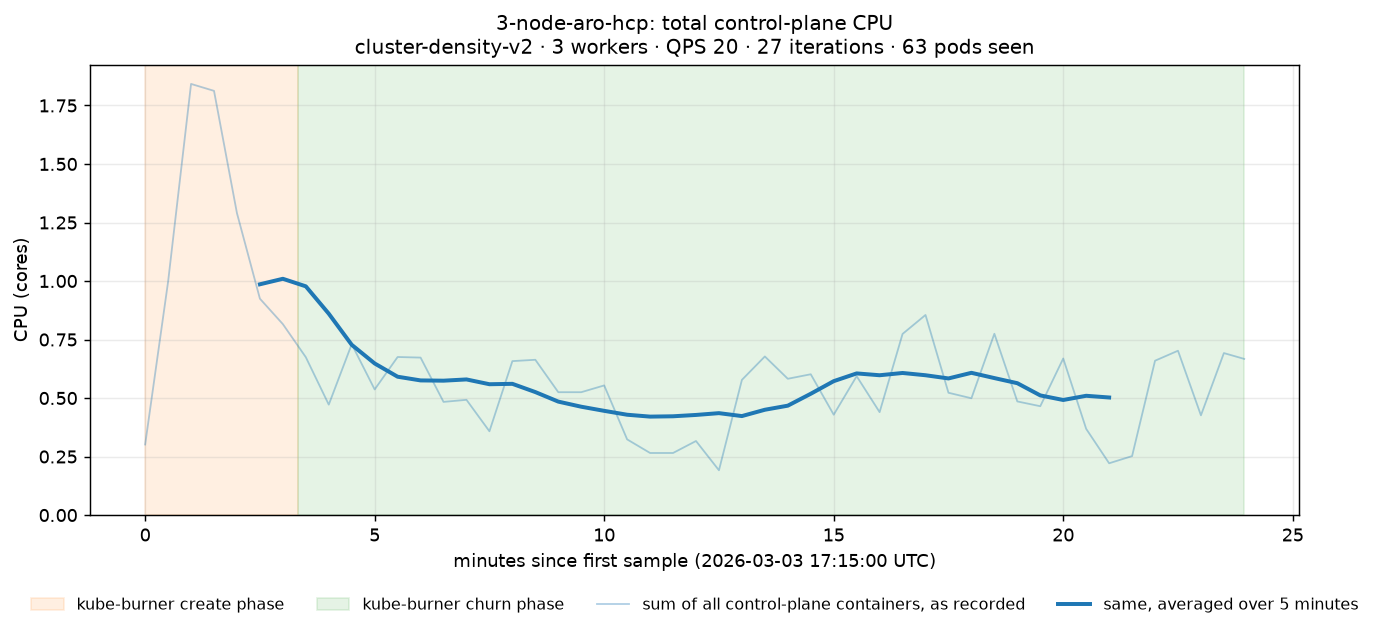
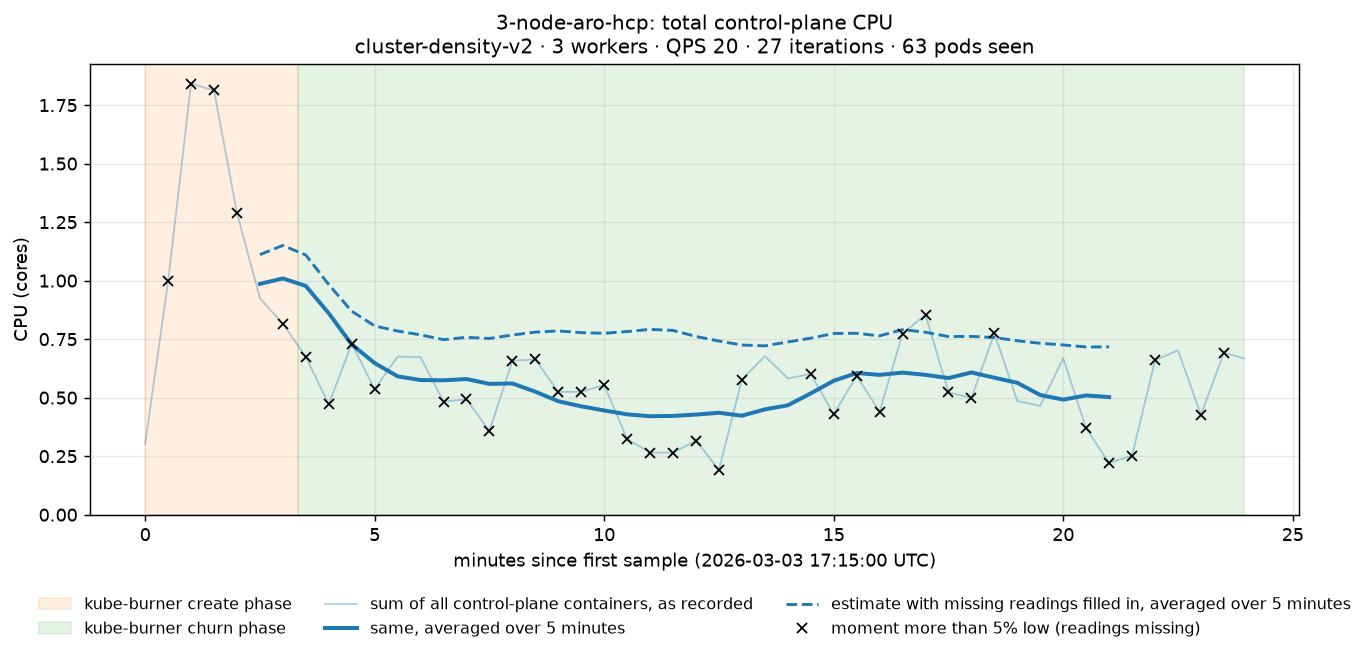
feat: mark moments with missing readings on the usage graphs

diff --git a/hack/hcp-scale-analysis/plot_controlplane_usage.py b/hack/hcp-scale-analysis/plot_controlplane_usage.py
@@ -9,10 +9,15 @@ these files to graphs/<dump name>/ next to this script (or to --output DIR):
   total-cpu.png     total control-plane CPU (cores) over time, as recorded and averaged
                     over 5 minutes (which hides bursts lasting only seconds)
   total-memory.png  total control-plane memory working set (GiB) over time
-  summary.json      job settings, phase times, sampling interval, gaps and skipped duplicates
+  summary.json      job settings, phase times, sampling interval, gaps, skipped duplicates
+                    and missing readings
 
 Both graphs share one time axis and shade the kube-burner phases recorded in
 jobSummary, so a representative steady-state window can be picked by eye.
+A missing reading adds nothing to the recorded total, so where containers' readings are
+missing (as in the 3- and 6-node runs) the graphs mark each moment whose total is more than
+5% too low, and add a dashed estimate with each copy's missing readings filled in along a
+straight line from its neighboring readings. Graphs with no such moments don't change.
 The output is meant to be committed, so it records the dump's file name but not
 the cluster ID or namespace; those are only printed to the terminal.
 
@@ -32,6 +37,7 @@ from collections import Counter, defaultdict
 import matplotlib
 matplotlib.use("Agg")
 import matplotlib.pyplot as plt
+import numpy as np
 
 from hcputil import opener
 
@@ -41,6 +47,7 @@ CPU_TO_CORES = 1 / 100
 BYTES_TO_GIB = 1 / 1024 ** 3
 GAP_FACTOR = 1.5  # a step this many times the usual sampling interval means samples are missing
 SMOOTH_MINUTES = 5
+LOW_SHARE = 0.05  # a moment is marked when missing readings leave its recorded total more than this share low
 PHASE_COLORS = ["tab:orange", "tab:green"]
 GRAPHS_DIR = os.path.join(os.path.dirname(os.path.abspath(__file__)), "graphs")
 
@@ -75,14 +82,14 @@ def rounded_minutes(origin, when):
 def read_dump(path):
     """Read the dump once.
 
-    Returns (job_summary, usage, containers, duplicates), where
+    Returns (job_summary, usage, readings, duplicates), where
     usage[namespace][metric][time] is the sum over that namespace's containers,
-    containers[namespace] holds the (pod, container) pairs seen and duplicates[namespace]
-    counts repeated samples that were skipped.
+    readings[namespace][metric][(pod, container)][time] is one container's reading and
+    duplicates[namespace] counts repeated samples that were skipped.
     """
     job = None
     usage = defaultdict(lambda: {CPU_METRIC: defaultdict(float), MEMORY_METRIC: defaultdict(float)})
-    containers = defaultdict(set)
+    readings = defaultdict(lambda: {CPU_METRIC: defaultdict(dict), MEMORY_METRIC: defaultdict(dict)})
     seen = set()
     duplicates = Counter()
     with opener(path) as f:
@@ -116,8 +123,8 @@ def read_dump(path):
                 continue
             seen.add(key)
             usage[namespace][metric][when] += record["value"]
-            containers[namespace].add((pod, container))
-    return job or {}, usage, containers, duplicates
+            readings[namespace][metric][(pod, container)][when] = record["value"]
+    return job or {}, usage, readings, duplicates
 
 
 def total_series(usage, namespaces, metric, scale):
@@ -127,6 +134,44 @@ def total_series(usage, namespaces, metric, scale):
         for when, value in usage[namespace][metric].items():
             totals[when] += value
     return sorted((when, value * scale) for when, value in totals.items())
+
+
+def filled_in_total(copies):
+    """Add up copies {key: [(time, value)] in time order} at each moment two ways: as recorded, and
+    with each copy's missing readings between its first and last reading filled in along a straight
+    line from its neighboring readings, so they don't count as zero.
+
+    Returns (times, recorded totals, filled-in totals, readings filled in, readings present)."""
+    times = sorted({when for points in copies.values() for when, _ in points})
+    seconds = np.array([(when - times[0]).total_seconds() for when in times]) if times else np.zeros(0)
+    position = {when: i for i, when in enumerate(times)}
+    recorded, filled_in = np.zeros(len(times)), np.zeros(len(times))
+    present = filled = 0
+    for points in copies.values():
+        own = np.array([(when - times[0]).total_seconds() for when, _ in points])
+        inside = (seconds >= own[0]) & (seconds <= own[-1])
+        filled_in[inside] += np.interp(seconds[inside], own, [value for _, value in points])
+        for when, value in points:
+            recorded[position[when]] += value
+        present += len(points)
+        filled += int(inside.sum()) - len(points)
+    return times, recorded, filled_in, filled, present
+
+
+def missing_readings(readings, namespaces, metric, scale):
+    """How missing readings affect the recorded total over the whole run: (moments more than LOW_SHARE
+    low as [(time, recorded total)], the filled-in estimate as [(time, total)], a summary dict)."""
+    copies = {(namespace, *key): sorted((when, value * scale) for when, value in values.items())
+              for namespace in namespaces for key, values in readings[namespace][metric].items()}
+    times, recorded, filled_in, filled, present = filled_in_total(copies)
+    low_share = np.divide(filled_in - recorded, filled_in, out=np.zeros(len(times)), where=filled_in > 0)
+    low = [(when, value) for when, value, share in zip(times, recorded, low_share) if share > LOW_SHARE]
+    summary = {
+        "share_of_readings_missing": round(filled / (filled + present), 3) if filled + present else None,
+        f"moments_more_than_{LOW_SHARE:.0%}_low".replace("%", "_percent"): len(low),
+        "lowest_moment_low_by": round(float(low_share.max()), 3) if len(times) else None,
+    }
+    return low, list(zip(times, filled_in)), summary
 
 
 def interval_and_gaps(points):
@@ -179,7 +224,8 @@ def line_points(points, origin, interval):
     return xs, ys
 
 
-def plot_total(path, points, origin, interval, phases, title, ylabel, color, smooth_minutes=None):
+def plot_total(path, points, origin, interval, phases, title, ylabel, color, smooth_minutes=None,
+               low=(), estimate=()):
     fig, ax = plt.subplots(figsize=(12, 4.5))
     for (name, start, end), shade in zip(phases, PHASE_COLORS):
         ax.axvspan(minutes_since(origin, start), minutes_since(origin, end),
@@ -192,18 +238,26 @@ def plot_total(path, points, origin, interval, phases, title, ylabel, color, smo
         ax.plot(smooth_xs, smooth_ys, color=color, lw=2.2, label=f"same, averaged over {smooth_minutes} minutes")
     else:
         ax.plot(xs, ys, color=color, lw=1.5, label="sum of all control-plane containers")
+    if low:
+        estimated = rolling_average(estimate, smooth_minutes) if smooth_minutes else estimate
+        estimate_xs, estimate_ys = line_points(estimated, origin, interval)
+        ax.plot(estimate_xs, estimate_ys, color=color, lw=1.6, ls="--",
+                label="estimate with missing readings filled in"
+                      + (f", averaged over {smooth_minutes} minutes" if smooth_minutes else ""))
+        ax.plot([minutes_since(origin, when) for when, _ in low], [value for _, value in low], "x",
+                color="black", markersize=5, label=f"moment more than {LOW_SHARE:.0%} low (readings missing)")
     ax.set_title(title, fontsize=11)
     ax.set_xlabel(f"minutes since first sample ({origin:%Y-%m-%d %H:%M:%S} UTC)")
     ax.set_ylabel(ylabel)
     ax.set_ylim(bottom=0)
     ax.grid(True, alpha=0.25)
-    ax.legend(loc="upper center", bbox_to_anchor=(0.5, -0.15), ncol=4 if smooth_minutes else 3,
+    ax.legend(loc="upper center", bbox_to_anchor=(0.5, -0.15), ncol=3 if low or not smooth_minutes else 4,
               frameon=False, fontsize=9)
     fig.savefig(path, dpi=130, bbox_inches="tight")
     plt.close(fig)
 
 
-def describe(points, origin, interval, gaps):
+def describe(points, origin, interval, gaps, missing):
     return {
         "first_sample": points[0][0].isoformat(),
         "last_sample": points[-1][0].isoformat(),
@@ -211,6 +265,7 @@ def describe(points, origin, interval, gaps):
         "interval_seconds": interval,
         "gaps": [{"from_minute": rounded_minutes(origin, before),
                   "to_minute": rounded_minutes(origin, after)} for before, after in gaps],
+        "missing_readings": missing,
     }
 
 
@@ -220,7 +275,7 @@ def main():
     name = os.path.basename(dump).removesuffix(".gz").removesuffix(".ndjson")
     output = os.path.expanduser(args.output) if args.output else os.path.join(GRAPHS_DIR, name)
 
-    job, usage, containers, duplicates = read_dump(dump)
+    job, usage, readings, duplicates = read_dump(dump)
     cluster_id = job.get("clusterName")
     if not cluster_id:
         sys.exit(f"{dump} has no jobSummary with a clusterName, so the hosted cluster under test is unknown")
@@ -236,7 +291,7 @@ def main():
 
     origin = min(cpu[0][0], memory[0][0])
     phases = job_phases(job)
-    seen = set().union(*(containers[ns] for ns in namespaces))
+    seen = set().union(*(readings[ns][metric] for ns in namespaces for metric in (CPU_METRIC, MEMORY_METRIC)))
     pods = {pod for pod, _ in seen}
     config = job.get("jobConfig", {})
     subtitle = (f"{config.get('name', 'unknown job')} · {job.get('workerNodesCount', '?')} workers · "
@@ -246,11 +301,14 @@ def main():
     os.makedirs(output, exist_ok=True)
     cpu_interval, cpu_gaps = interval_and_gaps(cpu)
     memory_interval, memory_gaps = interval_and_gaps(memory)
+    cpu_low, cpu_estimate, cpu_missing = missing_readings(readings, namespaces, CPU_METRIC, CPU_TO_CORES)
+    memory_low, memory_estimate, memory_missing = missing_readings(readings, namespaces, MEMORY_METRIC, BYTES_TO_GIB)
     plot_total(os.path.join(output, "total-cpu.png"), cpu, origin, cpu_interval, phases,
                f"{name}: total control-plane CPU\n{subtitle}", "CPU (cores)", "tab:blue",
-               smooth_minutes=SMOOTH_MINUTES)
+               smooth_minutes=SMOOTH_MINUTES, low=cpu_low, estimate=cpu_estimate)
     plot_total(os.path.join(output, "total-memory.png"), memory, origin, memory_interval, phases,
-               f"{name}: total control-plane memory\n{subtitle}", "memory working set (GiB)", "tab:red")
+               f"{name}: total control-plane memory\n{subtitle}", "memory working set (GiB)", "tab:red",
+               low=memory_low, estimate=memory_estimate)
 
     summary = {
         "dump": os.path.basename(dump),
@@ -270,8 +328,8 @@ def main():
         "pods_seen": len(pods),
         "containers_seen": len(seen),
         "duplicate_samples_skipped": sum(duplicates[ns] for ns in namespaces),
-        "cpu": describe(cpu, origin, cpu_interval, cpu_gaps),
-        "memory": describe(memory, origin, memory_interval, memory_gaps),
+        "cpu": describe(cpu, origin, cpu_interval, cpu_gaps, cpu_missing),
+        "memory": describe(memory, origin, memory_interval, memory_gaps, memory_missing),
     }
     with open(os.path.join(output, "summary.json"), "w") as f:
         json.dump(summary, f, indent=2)

diff --git a/hack/hcp-scale-analysis/container_usage.py b/hack/hcp-scale-analysis/container_usage.py
@@ -51,7 +51,7 @@ import numpy as np
 
 from hcputil import opener
 from plot_controlplane_usage import (BYTES_TO_GIB, CPU_METRIC, CPU_TO_CORES, MEMORY_METRIC, SMOOTH_MINUTES,
-                                     parse_time, rolling_average)
+                                     filled_in_total, parse_time, rolling_average)
 
 # The last reading usually lands a fraction of a second after the churn phase ends, so the window's
 # end is stretched by 1 s to include it. (In the 49-node run it lands 11 s later and is left out.)
@@ -256,18 +256,9 @@ def total_usage(copies, smooth_minutes, percentiles):
     reading are filled in along a straight line between its neighboring readings, so they don't
     count as zero; the share filled in is the part of the summed readings that was filled in this way.
     Every copy counts, including copies being replaced, as they really ran."""
-    times = sorted({when for points in copies.values() for when, _ in points})
+    times, _, total, filled, present = filled_in_total(copies)
     if not times:
         return [None] * len(percentiles), None
-    seconds = np.array([(when - times[0]).total_seconds() for when in times])
-    total = np.zeros(len(times))
-    present = filled = 0
-    for points in copies.values():
-        own = np.array([(when - times[0]).total_seconds() for when, _ in points])
-        inside = (seconds >= own[0]) & (seconds <= own[-1])
-        total[inside] += np.interp(seconds[inside], own, [value for _, value in points])
-        present += len(points)
-        filled += int(inside.sum()) - len(points)
     series = list(zip(times, total))
     values = [value for _, value in rolling_average(series, smooth_minutes)] if smooth_minutes else list(total)
     results = [np.percentile(values, p) if values else None for p in percentiles]

diff --git a/hack/hcp-scale-analysis/README.md b/hack/hcp-scale-analysis/README.md
@@ -80,8 +80,11 @@ the numbers don't change.
 ## Known limitations
 
 - Each size has only one test run, so how much the numbers vary between runs is unknown.
-- The 3- and 6-node dumps are missing about a quarter of their CPU readings. Their CPU numbers, especially
-  peaks, are less reliable, and their total-CPU graphs read low, as missing readings add nothing to the total.
+- The 3- and 6-node dumps are missing about a quarter of their CPU readings, so their CPU numbers, especially
+  peaks, are less reliable. As a missing reading adds nothing to a recorded total, their graphs mark each moment
+  whose total is more than 5% too low and add a dashed estimate with the missing readings filled in, and each
+  run's `summary.json` says how many readings are missing. A missing reading at the very start or end of a
+  copy's readings can't be filled in, so it isn't marked.
 - The CPU metric drops readings of exactly zero, so idle containers show fewer readings.
 - Churn phases of 20–23 minutes give few 5-minute averages, so their CPU p95 is close to the highest value.
 - The runs weren't set up the same way: kube-burner and OpenShift versions, churn delay and actual churn length
